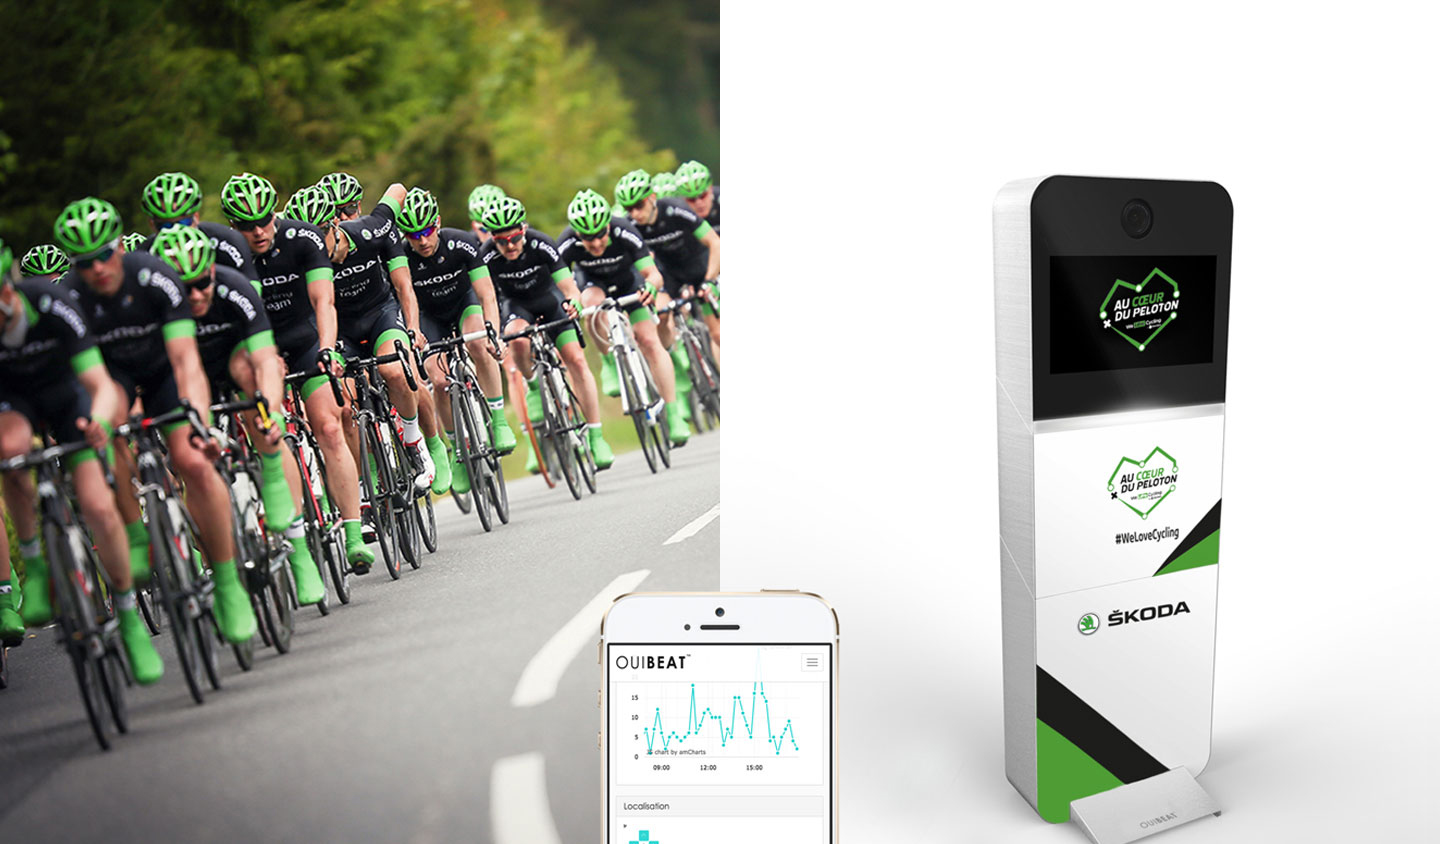
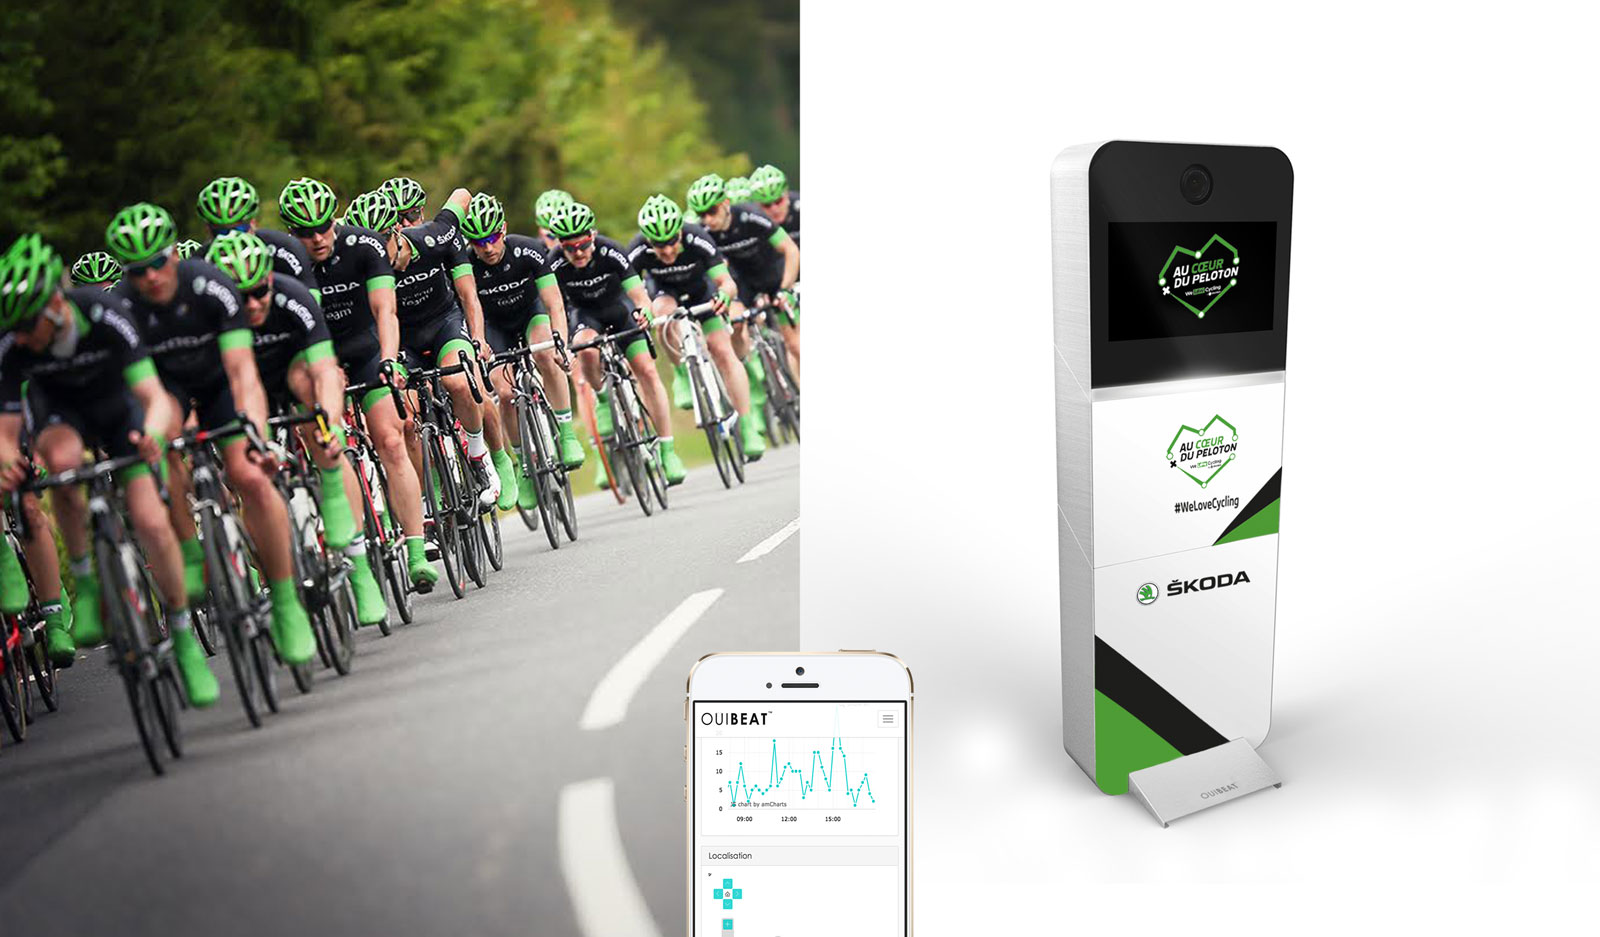
Fix header

diff --git a/app/assets/stylesheets/pages/_socialwall.scss b/app/assets/stylesheets/pages/_socialwall.scss
@@ -1,10 +1,10 @@
 .socialwall-action {
   header {
-    background: asset-url('socialwall/socialwall-header.png') no-repeat top center fixed;
+    background: asset-url('socialwall/socialwall-header.jpg') no-repeat top center fixed;
     background-size: cover;
 
     @media (max-width: 992px) {
-      background: asset-url('socialwall/socialwall-header.png') no-repeat top center;
+      background: asset-url('socialwall/socialwall-header.jpg') no-repeat top center;
     }
   }
 
@@ -201,7 +201,7 @@
     .next-container {
       .next-left {
         &:after {
-          background: asset-url('socialwall/borne-connectee.png') no-repeat top left;
+          background: asset-url('shared/selection/offer-borne.jpg') no-repeat top left;
           background-size: cover;
         }
       }

diff --git a/app/assets/stylesheets/pages/_commons.scss b/app/assets/stylesheets/pages/_commons.scss
@@ -378,13 +378,6 @@ p {
         height: 250px;
       }
 
-      &:hover {
-        &:after {
-          transform: scale(1.1);
-          z-index:5;
-        }
-      }
-
       &:after {
         content: '';
         position: absolute;
@@ -414,12 +407,6 @@ p {
         width: 100%;
         height: 250px;
         bottom: 0;
-      }
-
-      &:hover {
-        &:after {
-          transform: scale(1.1);
-        }
       }
 
       &:after {

diff --git a/app/assets/stylesheets/components/_selection.scss b/app/assets/stylesheets/components/_selection.scss
@@ -155,9 +155,9 @@
     &:after {
       content: "";
       position: absolute;
-      background-image: asset-url('shared/selection/offer-borne.jpg');
+      background-image: asset-url('shared/selection/offer-borne-2.jpg');
       top: 0;
-      left: -75%;
+      left: -56%;
       width: 225%;
       height: 100%;
 

diff --git a/app/assets/stylesheets/pages/_borne_connectee.scss b/app/assets/stylesheets/pages/_borne_connectee.scss
@@ -111,7 +111,7 @@
       &:after {
         content: "";
         position: absolute;
-        background: asset-url('borne/borne-ouibeat.jpg') no-repeat top left;
+        background: asset-url('borne/borne-ouibeat-2.jpg') no-repeat top left;
         background-size: cover;
         height: 100%;
         width: 100%;
